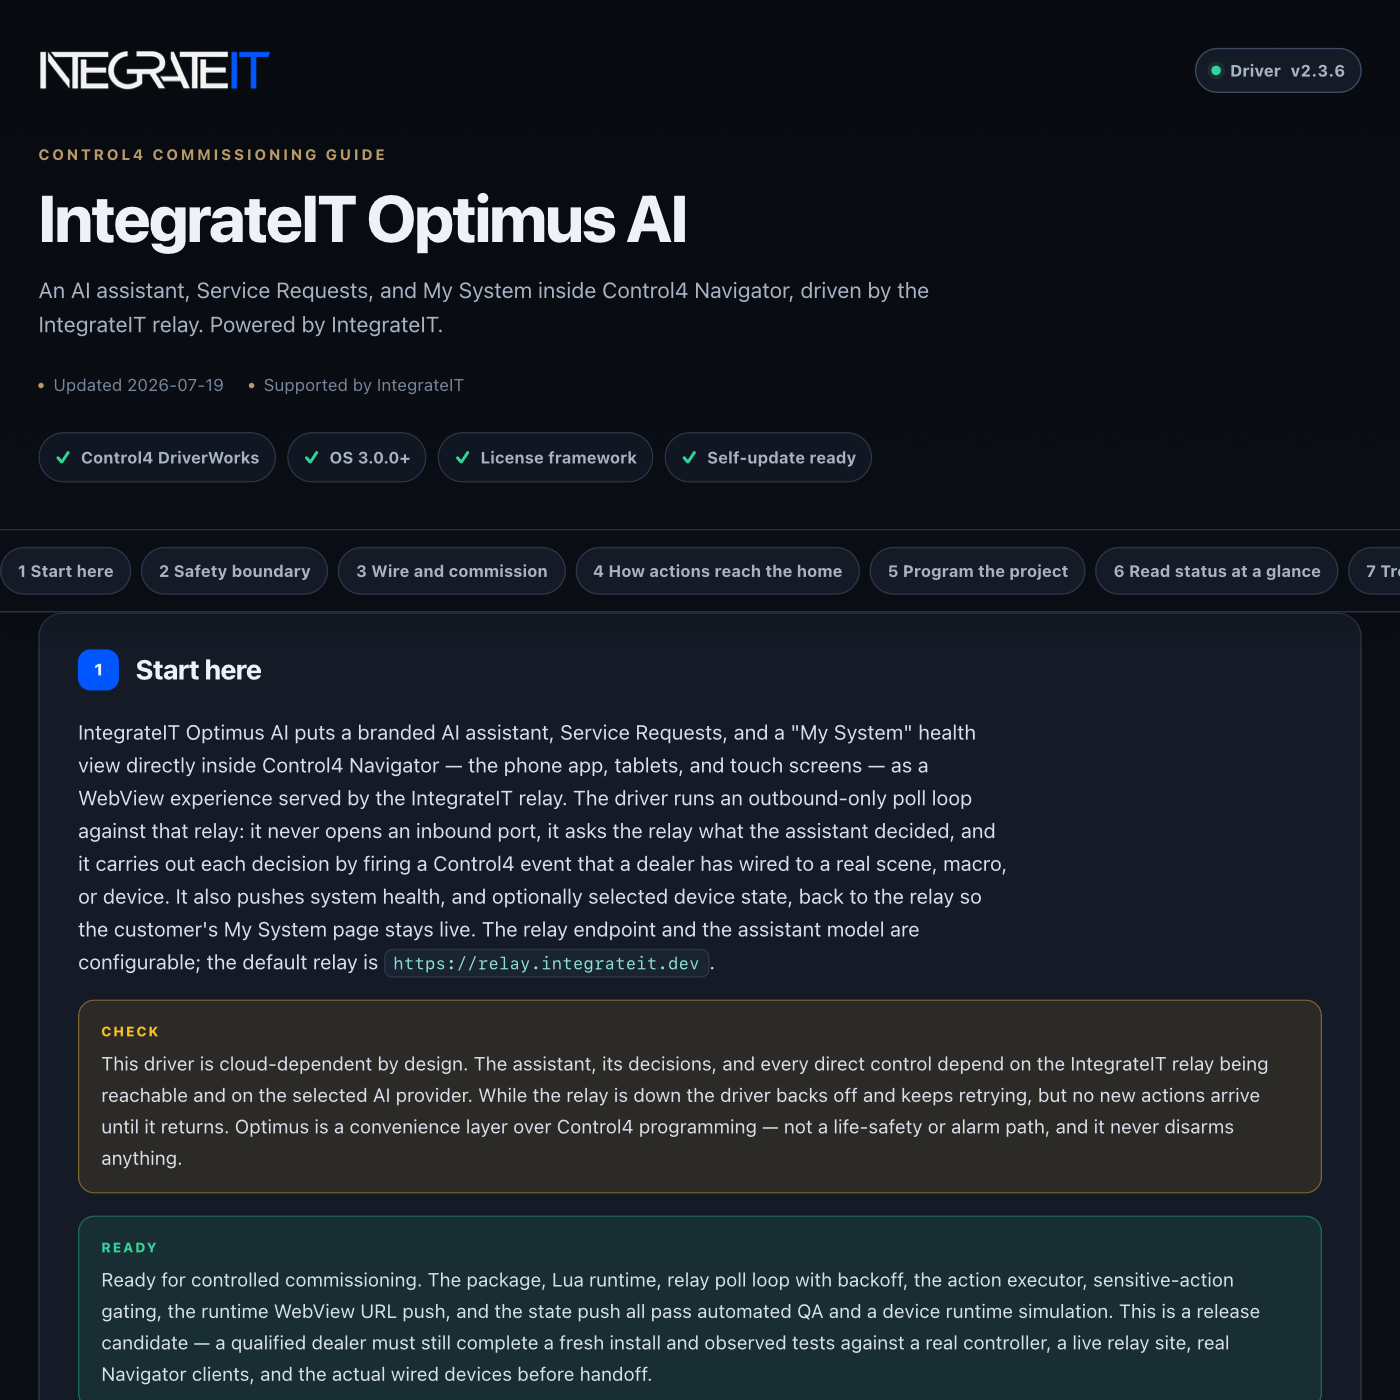
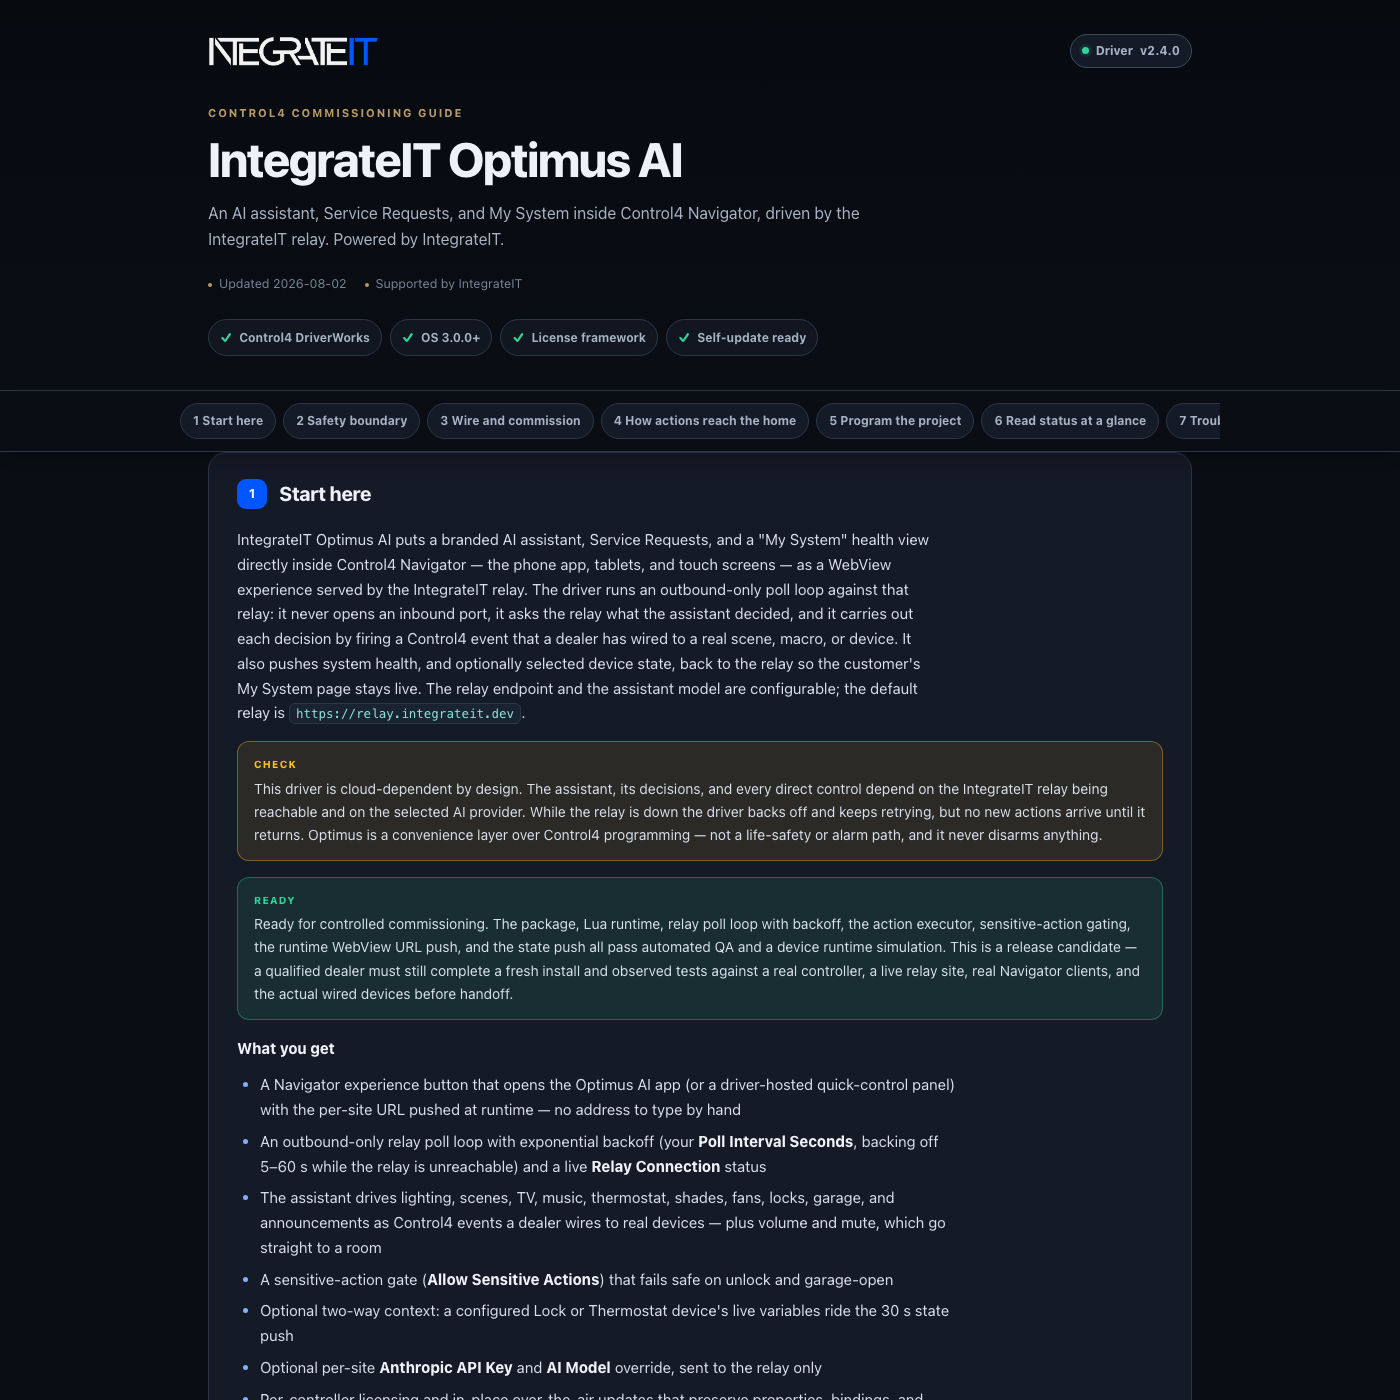
control4: publish driver channel (integrateit_optimus 2.4.0)

diff --git a/control4/integrateit_optimus/documentation.html b/control4/integrateit_optimus/documentation.html
@@ -179,13 +179,13 @@ td code{white-space:normal}
     <div class="wrap">
       <div class="brandbar">
[1 lines of base64/hex data omitted]
-        <span class="version"><span class="word">Driver</span> v2.3.8</span>
+        <span class="version"><span class="word">Driver</span> v2.4.0</span>
       </div>
       <p class="eyebrow">Control4 commissioning guide</p>
       <h1>IntegrateIT Optimus AI</h1>
       <p class="sub">An AI assistant, Service Requests, and My System inside Control4 Navigator, driven by the IntegrateIT relay. Powered by IntegrateIT.</p>
       <div class="meta">
-        <span>Updated 2026-07-30</span>
+        <span>Updated 2026-08-02</span>
         <span>Supported by IntegrateIT</span>
       </div>
       <div class="readiness" aria-label="Driver capabilities">
@@ -294,7 +294,8 @@ td code{white-space:normal}
     <tr><td><code>Status</code></td><td><code>Relay OK</code> / <code>Connected</code></td><td><code>Relay error: HTTP …</code> names the failing code</td></tr>
     <tr><td><code>License Status</code></td><td>Activated, or Lenient during commissioning</td><td>Enter a key before selecting Strict enforcement</td></tr>
   </table>
-  <p>Two-way context is best-effort. Set <b>Lock Device ID</b> or <b>Thermostat Device ID</b> and that device's live variables ride the 30 s state push. If the id is wrong or the OS refuses to read it, the driver logs the gap once and omits it — it never invents a value. Beyond those two device ids this driver observes nothing on its own: the fixed local-state block that rides the push (front door, garages) is a placeholder the driver never updates, so treat <b>Lock Device ID</b> as the only live lock truth. Garage position is deliberately not reported: a generic driver cannot reliably read an external contact sensor's open/closed state, so this driver does not claim to. Garage feedback, if wanted, is a hardware-verified follow-up via a stock contact driver and a watched variable.</p>
+  <p>Two-way context is best-effort. Set <b>Lock Device ID</b> or <b>Thermostat Device ID</b> and that device's live variables ride the 30 s state push. If the id is wrong or the OS refuses to read it, the driver logs the gap once and omits it — it never invents a value. Beyond those two device ids this driver observes nothing on its own, and the local-state block that rides the push is empty for exactly that reason — through 2.3.8 it carried a frozen <code>front door: locked</code> that nothing ever wrote, so every push and every support-ticket snapshot asserted a locked door whether or not a lock had been read. As of 2.4.0 it asserts nothing, and <b>Lock Device ID</b> is the only live lock truth. Garage position is deliberately not reported: a generic driver cannot reliably read an external contact sensor's open/closed state, so this driver does not claim to. Garage feedback, if wanted, is a hardware-verified follow-up via a stock contact driver and a watched variable.</p>
+  <p>The OS version on the customer's My System page is read from the controller itself (<code>C4:GetVersionInfo</code>). A controller that will not report one sends no version at all rather than a default — My System shows an em-dash and the relay renders no "update available" recommendation. Through 2.3.8 this field was the literal <code>4.2</code> for every controller, which meant the app could recommend scheduling an OS update off a constant; that is fixed in 2.4.0. My System reports no CPU, memory, or network figures: a DriverWorks driver cannot read any of them, so the app does not display them. Uptime is the one gauge there, and the driver measures it. Through 2.4.0's app release a Network tile sat beside it drawing a fixed near-full green bar over an em-dash — a health reading nothing had taken; it is gone.</p>
   <p><b>Print Configuration</b> writes the relay URL, site, whether the token and API key are set (never their values), the model, poll interval, and license state to the Lua output window.</p>
 </section>
 
@@ -317,12 +318,12 @@ td code{white-space:normal}
 <section class="card" id="trust" data-card="trust">
   <h2><span class="n">8</span> Ownership, privacy, and licensing</h2>
   <p>This package is an original IntegrateIT product: the Control4 driver, the relay integration, the Navigator experience, documentation, QA, licensing, updates, and support are all built and provided by IntegrateIT. Anthropic and Claude are trademarks of Anthropic, PBC; IntegrateIT is not affiliated with Anthropic, and the choice of assistant model does not change that.</p>
-  <p>What leaves the controller goes to one place — the configured <b>Relay URL</b> — and nowhere else. Every request the driver makes is outbound: it polls the relay for actions, pushes a state snapshot every 30 s (controller MAC and uptime, driver version, license and relay-health flags, the fixed local-state block, and any configured Lock/Thermostat device variables), and, when the assistant asks for a camera check, GETs the dealer-supplied <b>Camera Snapshot URL</b> on the LAN and posts that image to the relay. No inbound port is opened. The <b>Site Token</b> is a password-typed credential, redacted in the debug log and never printed; the <b>License Key</b> is never printed.</p>
+  <p>What leaves the controller goes to one place — the configured <b>Relay URL</b> — and nowhere else. Every request the driver makes is outbound: it polls the relay for actions, pushes a state snapshot every 30 s (controller MAC and uptime, driver version, the controller's OS version when it reports one, license and relay-health flags, and any configured Lock/Thermostat device variables), and, when the assistant asks for a camera check, GETs the dealer-supplied <b>Camera Snapshot URL</b> on the LAN and posts that image to the relay. No inbound port is opened. The <b>Site Token</b> is a password-typed credential, redacted in the debug log and never printed; the <b>License Key</b> is never printed.</p>
   <p>The assistant itself runs relay-side. If you supply a per-site <b>Anthropic API Key</b>, it is sent to the relay (only) and the relay uses it to reach the AI provider — meaning that site's prompts run under your key and your account pays for that usage. Leave it blank to use the relay's own key. AI responses and direct controls depend on the relay and the selected provider being available.</p>
   <p>Lenient mode allows commissioning without an activated key and keeps License Status visible. Strict mode blocks all Control4 control until the Ops Portal has minted and validated a key for that controller; the app shell loads either way. Installing this package does not itself mint or activate a controller license. Self-update checks the IntegrateIT channel and stages a new package in place, preserving properties, bindings, and programming.</p>
 <section class="card" id="reference" data-card="reference">
   <h2><span class="n">R</span> Reference</h2>
-  <p>Generated from the driver manifest at build time — always matches this build (v2.3.8).</p>
+  <p>Generated from the driver manifest at build time — always matches this build (v2.4.0).</p>
   <h3>Properties</h3>
   <table>
     <tr><th>Property</th><th>Type</th><th>Default</th><th>Description</th></tr>
@@ -471,7 +472,9 @@ td code{white-space:normal}
     <section class="card" id="changelog" data-card="changelog">
   <h2><span class="n">V</span> Version history</h2>
   <div class="chg">
-    <div class="rel"><b>v2.3.8</b> <span class="pill green">current</span><span class="d">2026-07-30</span>
+    <div class="rel"><b>v2.4.0</b> <span class="pill green">current</span><span class="d">2026-08-02</span>
+      <ul><li>My System reported a hardcoded OS version ("4.2") for every controller. The relay compares that number against the latest shipping OS, so the app was recommending an OS update off a constant. The driver now reads the real version via C4:GetVersionInfo(), and when the controller won't report one it omits the field entirely rather than substituting a default — the relay hides the update card when the version is absent.</li><li>The customer app's My System page carried a Network tile fed by `sys.network`, a field only the development simulator ever set. On a real site it drew an em-dash under a hardcoded 96%-full green bar — a network health reading nothing had measured. Removed, same as the CPU and RAM tiles. Uptime, the one gauge with a controller behind it, now spans the row. App-page change only; the driver is unaffected. `tools/qa-relay-app.mjs` is the gate that keeps that class of tile from coming back.</li><li>The state push carried `frontDoor.locked = true` as a frozen literal that nothing ever wrote, so every push and every support-ticket snapshot asserted the front door was locked whether or not a lock had been read. Removed; the honest lock reading is the LOCK_STATE variable on the configured Lock Device ID.</li></ul></div>
+    <div class="rel"><b>v2.3.8</b><span class="d">2026-07-30</span>
       <ul><li>A numeric property containing nan or inf (possible through a hand-edited project file) passed tonumber, defeated every range clamp (all nan comparisons are false), and could reach a timer interval or the wire. Numeric properties now fall back to their documented default when non-finite, and the transmit chokepoint refuses a non-finite value by name.</li><li>The relay poll could die on a nan interval while status stayed healthy, and SendToDevice could receive inf; both are now finite by construction.</li><li>Adds the fleet-standard Run Diagnostics and Run Self-Test dealer actions: read-only, license-independent, cached-state honesty. Diagnostics reports what the driver has already observed - never probing the network, never printing a secret. Self-Test proves the shared layer locally and ends PASS or FAIL.</li></ul></div>
     <div class="rel"><b>v2.3.7</b><span class="d">2026-07-26</span>
       <ul><li>Documentation rebuilt to the IntegrateIT commissioning-guide standard: uniform sections, honest contracts, verified claim-by-claim against the code.</li></ul></div>

diff --git a/control4/integrateit_optimus/CHANGELOG.md b/control4/integrateit_optimus/CHANGELOG.md
@@ -1,5 +1,10 @@
 # Changelog — IntegrateIT Optimus AI
 
+## [2.4.0] - 2026-08-02
+- My System reported a hardcoded OS version ("4.2") for every controller. The relay compares that number against the latest shipping OS, so the app was recommending an OS update off a constant. The driver now reads the real version via C4:GetVersionInfo(), and when the controller won't report one it omits the field entirely rather than substituting a default — the relay hides the update card when the version is absent.
+- The customer app's My System page carried a Network tile fed by `sys.network`, a field only the development simulator ever set. On a real site it drew an em-dash under a hardcoded 96%-full green bar — a network health reading nothing had measured. Removed, same as the CPU and RAM tiles. Uptime, the one gauge with a controller behind it, now spans the row. App-page change only; the driver is unaffected. `tools/qa-relay-app.mjs` is the gate that keeps that class of tile from coming back.
+- The state push carried `frontDoor.locked = true` as a frozen literal that nothing ever wrote, so every push and every support-ticket snapshot asserted the front door was locked whether or not a lock had been read. Removed; the honest lock reading is the LOCK_STATE variable on the configured Lock Device ID.
+
 ## [2.3.8] - 2026-07-30
 - A numeric property containing nan or inf (possible through a hand-edited project file) passed tonumber, defeated every range clamp (all nan comparisons are false), and could reach a timer interval or the wire. Numeric properties now fall back to their documented default when non-finite, and the transmit chokepoint refuses a non-finite value by name.
 - The relay poll could die on a nan interval while status stayed healthy, and SendToDevice could receive inf; both are now finite by construction.
